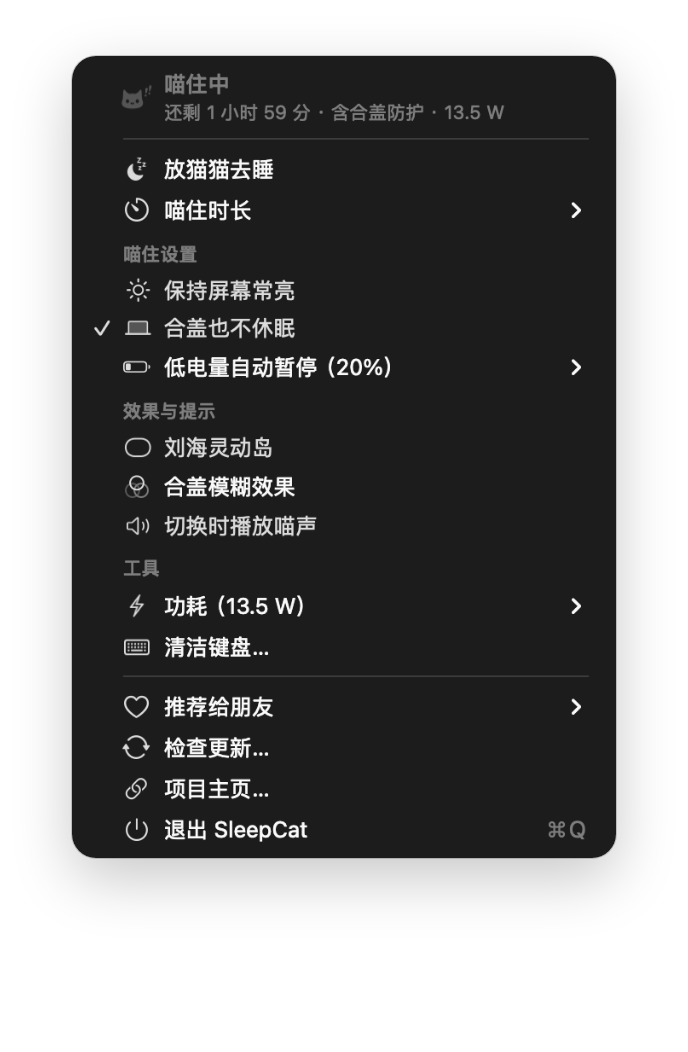
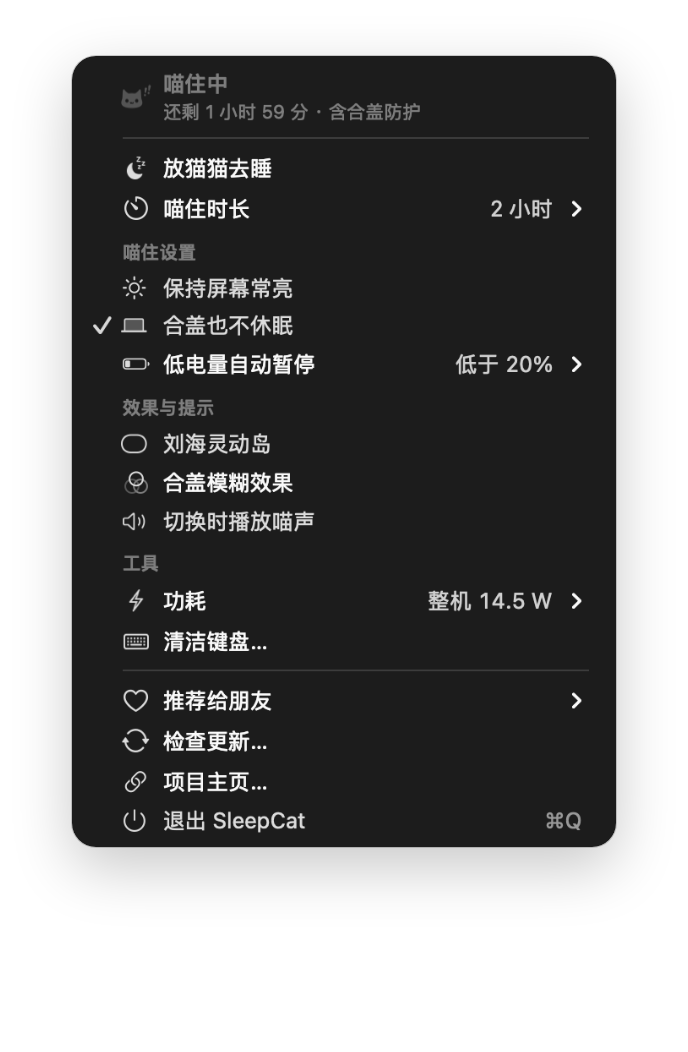
Refresh README images and tidy stale comments

diff --git a/Sources/SleepCat/PowerMeter.swift b/Sources/SleepCat/PowerMeter.swift
@@ -20,7 +20,7 @@ enum PowerMeter {
 
     /// 读此刻的能量流。插电时适配器输入读 SMC 的 PDTR，读不到就用「整机 + 充电」推算
     ///
-    /// 电池功率不直接用电压 × 电流：Apple Silicon 上电流经常读成 0（几个同类项目都踩过）。
+    /// 电池功率不直接用电压 × 电流：Apple Silicon 上电流经常读成 0。
     /// - 放电：优先 PPBR（电池往外放的功率，实测插电充电时它只有 1～2 W，说明它不管充电），
     ///   读不到退回电压 × 电流，再不行用整机功耗
     /// - 充电：用「适配器 − 整机」，读不到适配器时才用电压 × 电流

diff --git a/Sources/SleepCat/PowerSummaryView.swift b/Sources/SleepCat/PowerSummaryView.swift
@@ -5,7 +5,7 @@
 import AppKit
 
 /// 功耗子菜单里的概览面板。排版顺序：主读数 → 适配器 / 整机 / 电池三块 → 整机功耗曲线 → 平均 / 峰值 / 最低。
-/// 它嵌在原生菜单里，所以字号、颜色、边框都跟菜单其他行一个规格，左边界对齐菜单的图标列。
+/// 它嵌在原生菜单里，所以字号、颜色、边框都跟菜单其他行一个规格，左右边距和菜单分隔线对齐。
 /// 数据每次绘制时现取，菜单开着时每秒重画一次
 final class PowerSummaryView: NSView {
     private let historyProvider: () -> PowerHistory

diff --git a/Sources/SleepCat/NotchIsland.swift b/Sources/SleepCat/NotchIsland.swift
@@ -14,7 +14,7 @@ final class NotchIsland: NSObject {
         let detail: String
         /// 实时整机功耗，读不到就不显示
         var watts: Double? = nil
-        /// 读数下面的小字：充电 37.5 W / 电源供电 / 用电池
+        /// 读数下面的小字：适配器 · 充电中 / 适配器 / 电池放电
         var powerCaption: String? = nil
     }
 
